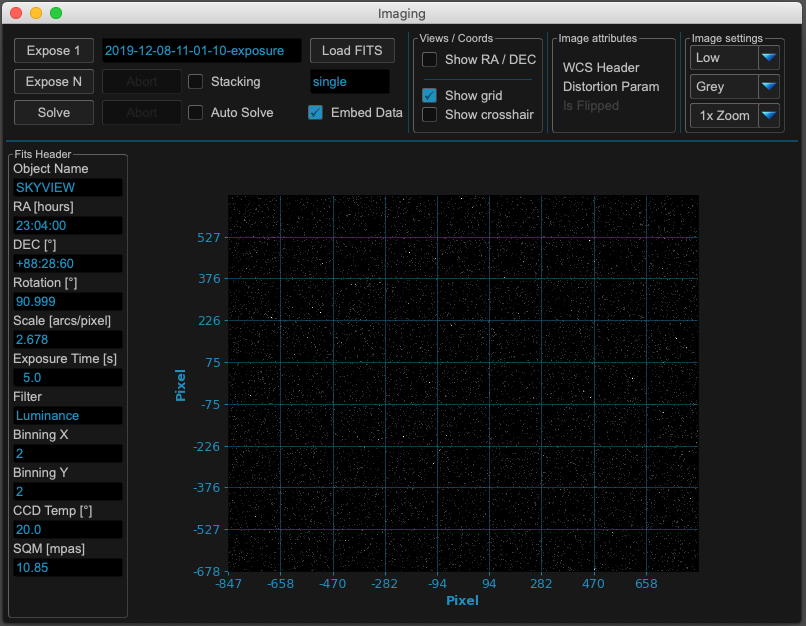
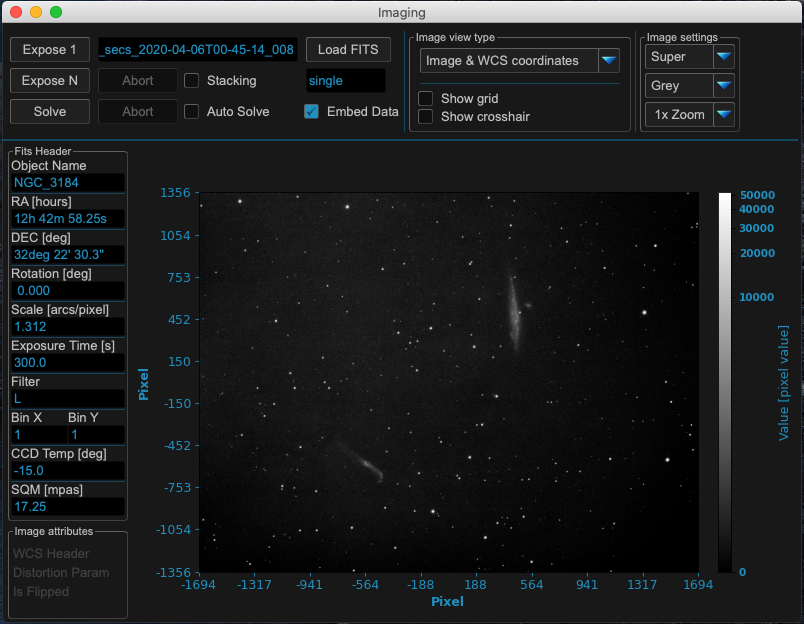
adding docs for image window

diff --git a/docs/source/imaging/imaging_window.rst b/docs/source/imaging/imaging_window.rst
@@ -1,9 +1,113 @@
-Imaging Window
-==============
+Image Window
+============
+The imaging window shows FITS files loaded from disk or images exposed manually or during
+model build. It is split in different areas to work with.
 
-M
+.. image:: image/image.png
+    :align: center
+    :scale: 71%
+
+Area 1: Image exposing and solving
+^^^^^^^^^^^^^^^^^^^^^^^^^^^^^^^^^^
+MW4 supports single (expose 1) and multiple (expose N) exposures. Continuous imaging could be
+stopped with abort. You also could explicitly load a fits file (extension .fit or .fits).
+If you have a plate solver (e.g. ASTAP) installed, you could solve the actual displayed
+image. The solved results are shown in message window. If you would like to add the results to
+the image, please check "embed data". This will make MW4 to write the plate solving results
+in the fits header of the file.
 
 .. warning::
-    Please take care that during the installation the checkbox "Add Python Path" is selected
-    and to install for a single user if you want to use the scripts.
+    Please be aware that MW4 will write the data to be embedded directly in the FITS file
+    without making a copy of the file!
+
+When "auto solve" is checked, MW4 will automatically plate solve every new picture and show
+or embed the results in the message window or fits header.
+
+A simple stacking method is available when mount is in tracking and keeps point accurate.
+When "stacking" is checked, MW4 will add all exposed images (expose N running) and calculate
+the mean of the image.
+
+Area 2: FITS Header entries
+^^^^^^^^^^^^^^^^^^^^^^^^^^^
+Some of the FITS header entry of the actual image are shown.
+
+Area 3: Image attributes
+^^^^^^^^^^^^^^^^^^^^^^^^
+MW4 calculates and extracts some image attributes. For example if a WCS header information
+is available, the distortion parameters are present or the actual image is flipped with
+regard to real position in sky.
+
+Area 4: Image display
+^^^^^^^^^^^^^^^^^^^^^
+Show the image and it's different view selected in area 5. For standard view the scale is
+pixel with 0/0 to be the center of the image. There will be a colorbar in each view with the
+values of the image.
+
+Area 5: View options
+^^^^^^^^^^^^^^^^^^^^
+For the image you have different options to alter the main view of the image:
+
+.. list-table:: Image views
+    :widths: 25, 75
+    :header-rows: 1
+
+    *   - Image
+        - standard visualization of the image in greyscale. MW4 does not support colors
+    *   - Image & WCS coordinates
+        - if distortion parameters are included, MW4 will show the RA / DEC coordinates
+    *   - Image & detected sources
+        - an overlay of the image with the extracted sources (stars) as circles
+    *   - Photometry - Sharpness
+        - sextractor based algorithm: value for referencing the sharpness (s.below)
+    *   - Photometry - Roundness
+        - sextractor based algorithm: value for roundness of the sources
+    *   - Photometry - Flux
+        - sextractor based algorithm: value for flux of the sources
+
+Some examples for the windows:
+
+View Image with WCS distortion:
+
+.. image:: image/image_distortion2.png
+    :align: center
+    :scale: 71%
+
+View Image with sources:
+
+.. image:: image/show_sources.png
+    :align: center
+    :scale: 71%
+
+View image with photometry sharpness
+
+.. image:: image/show_sharpness.png
+    :align: center
+    :scale: 71%
+
+View image with photometry roundness
+
+.. image:: image/show_roundness.png
+    :align: center
+    :scale: 71%
+
+View image with photometry flux
+
+.. image:: image/show_flux.png
+    :align: center
+    :scale: 71%
+
+View image with different zoom
+
+.. image:: image/zoom_2.png
+    :align: center
+    :scale: 71%
+
+View image with different color scheme
+
+.. image:: image/color_1.png
+    :align: center
+    :scale: 71%
+
+
+
 

diff --git a/docs/source/explain/main.rst b/docs/source/explain/main.rst
@@ -18,18 +18,18 @@ disconnected, green shows connected devices), and shows status text output from 
 Buttons below the status indicators can open, show additional status, or close additional
 windows for advanced features.
 
-Area 2
-^^^^^^
+Area 2: Overview and time
+^^^^^^^^^^^^^^^^^^^^^^^^^
 ...shows actual computer time, UTC, and the actual profile. In header section there is
 hint if MW4 work actually in online (internet connected) or offline mode.
 
-Area 3
-^^^^^^
+Area 3: Start / Stop / Boot / Shutdown
+^^^^^^^^^^^^^^^^^^^^^^^^^^^^^^^^^^^^^^
 ...manages loading / saving profiles, boot and shutdown of the mount (if WOL (Wake on LAN)
 is enabled and the MAC address of the mount is known)
 
-Area 4
-^^^^^^
+Area 4: Functions area
+^^^^^^^^^^^^^^^^^^^^^^
 ...shows different tabs for different use cases.
 
 MW4 comes uses tooltips which should help you understand which button or widget is used

diff --git a/docs/source/changelog.rst b/docs/source/changelog.rst
@@ -3,6 +3,10 @@ Changelog
 The changelog contains the user related function or environment updates. For a detailed
 changes list, please refer to the commit list on GitHub.
 
+0.150.27
+- photometry in image window, showing flux, roundness, sharpness, sources
+- subtracting background
+
 0.150.26
 - improved almanac (moon phase etc, runs now in local time also for drawing)
 - newer libraries (matplotlib 3.2.2)
